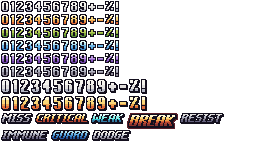
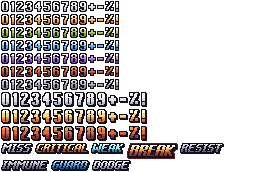
NEXT: red big number variant for party damage

diff --git a/next/src/ui/numberPopup.js b/next/src/ui/numberPopup.js
@@ -27,7 +27,7 @@ const ATTACH_WINDOW = 12; // a word attaches to a number spawned at most this ma
 const NUM_H = { num: 11, num_big: 15 };
 const WORD_H = { BREAK: 16 };
 const KIND_FONT = { crit: 'num_big', big: 'num_big', partyhit: 'num_big' };
-const KIND_COLOR = { partyhit: 'white', damage: 'white', white: 'white', crit: 'crit', heal: 'heal', mp: 'mp', poison: 'poison', gray: 'gray' };
+const KIND_COLOR = { partyhit: 'red', damage: 'white', white: 'white', crit: 'crit', heal: 'heal', mp: 'mp', poison: 'poison', gray: 'gray' };
 
 export class NumberPopups {
   constructor() { this.list = []; this.groups = []; }

diff --git a/next/sw.js b/next/sw.js
@@ -18,7 +18,7 @@
 'use strict';
 
 // build_pwa:begin
-const SHELL_VERSION = '5c1542a430f9';
+const SHELL_VERSION = '2666191a3057';
 const PRECACHE = [
   'index.html',
   'manifest.webmanifest',

diff --git a/next/tools/art/ui/art_numfont.py b/next/tools/art/ui/art_numfont.py
@@ -68,6 +68,7 @@ VARIANTS = {
     'heal': [P.ICE[3], P.GREEN[5], P.GREEN[5], P.GREEN[4], P.GREEN[3]],
     'mp': [P.ICE[3], P.WATER[5], P.WATER[4], P.WATER[4], P.WATER[3]],
     'poison': [P.VIOLET[4], P.VIOLET[3], P.VIOLET[3], P.VIOLET[2], P.VIOLET[1]],
+    'red': [P.RED[5], P.RED[4], P.RED[4], P.RED[3], P.RED[2]],
     'gray': [P.METAL[3], P.METAL[2], P.METAL[2], P.STEEL[3], P.STEEL[3]],
 }
 WORD_GRAD = {
@@ -181,9 +182,9 @@ def build():
             x += g.shape[1] + 1
         variants[vname] = y - 1
         y += row_h
-    # big digits: white and crit
+    # big digits: white, crit and red (party damage)
     big_row = 17
-    for vi, vname in enumerate(('white', 'crit')):
+    for vi, vname in enumerate(('white', 'crit', 'red')):
         x = 1
         for ch in chars:
             g = colorize(big[ch], VARIANTS[vname], shadow=True)
